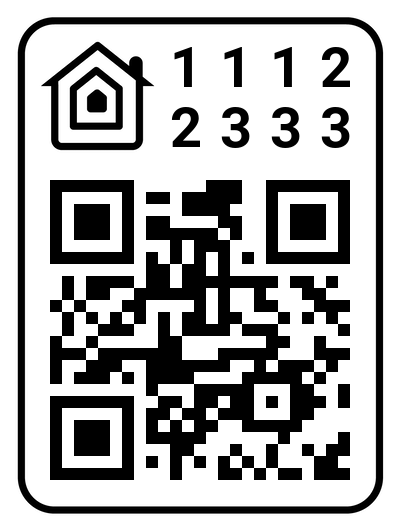
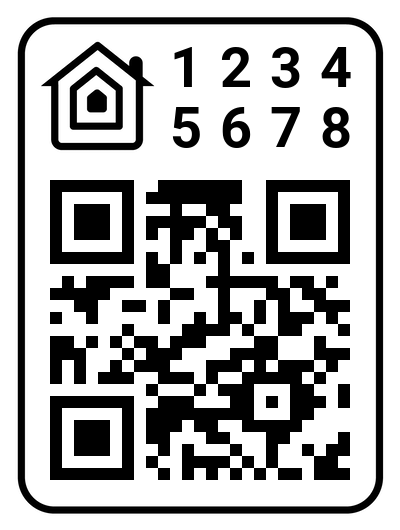
fix

diff --git a/src/cam_backend.c b/src/cam_backend.c
@@ -8,6 +8,8 @@
 
 #include <pthread.h>
 
+#include <cJSON.h>
+
 #include "cam_backend.h"
 #include "debug.h"
 #include "port.h"
@@ -68,7 +70,7 @@ static char _ff_fps[] = "10";
 static char _ff_vssrc[16];
 static char _ff_vsrtp[128];
 static char _ff_url[1024];
-
+#if 0
 static char* ffmpeg_args[] = {
     ffmpeg_cmd_path,
     "-f", "video4linux2",
@@ -84,11 +86,30 @@ static char* ffmpeg_args[] = {
     "-srtp_out_params", _ff_vsrtp, _ff_url,
     NULL
 };
-
+#else
+static char* ffmpeg_args[] = {
+    ffmpeg_cmd_path,
+    "-i", "http://127.0.0.1:7777/live",
+//    "-i", "/home/tong/homekit-lwng/build/vid.h264",
+//    "-i", "/home/tong/live.h264",
+    "-input_format", "h264",
+    "-video_size", _ff_video_size,
+    "-framerate", _ff_fps,
+//    "-vcodec", "h264_omx",
+    "-vcodec", "copy",
+    "-tune", "zerolatency",
+    "-copyts", "-an", "-payload_type", "99",
+    "-ssrc", _ff_vssrc,
+    "-f", "rtp",
+    "-srtp_out_suite", "AES_CM_128_HMAC_SHA1_80",
+    "-srtp_out_params", _ff_vsrtp, _ff_url,
+    NULL
+};
+#endif
 #define FF_SRTP_URL_TEMPLATE \
     "srtp://%s:%d?"\
     "rtcpport=%d&localrtcpport=%d&pkt_size=1378"
-
+#if 1
 void cam_start()
 {
     if (_cam_status!=CAM_INITIALIZED)
@@ -119,7 +140,6 @@ void cam_start()
         exit(0);
     }
 }
-
 void cam_kill()
 {
     if (_cam_status!=CAM_STARTED)
@@ -128,6 +148,41 @@ void cam_kill()
     cam_pid = 0;
     _cam_status = CAM_UNINITIALIZED;
 }
+
+
+#else
+//call camera_daemon to start streaming
+void cam_start()
+{
+    if (_cam_status!=CAM_INITIALIZED)
+        return;
+
+    base64_encode((uint8_t*)&vsrtp,sizeof(struct srtp_cfg), _ff_vsrtp);
+
+    cJSON* srtp_cfg = cJSON_CreateObject();
+    cJSON* json_addr = cJSON_CreateString(controller_ip);
+    cJSON_AddItemToObject(srtp_cfg, "addr", json_addr);
+    cJSON* json_port = cJSON_CreateNumber(vrtp_port);
+    cJSON_AddItemToObject(srtp_cfg, "port", json_port);
+    cJSON* json_ssrc = cJSON_CreateNumber(vssrc);
+    cJSON_AddItemToObject(srtp_cfg, "ssrc", json_ssrc);
+    cJSON* json_key = cJSON_CreateString(_ff_vsrtp);
+    cJSON_AddItemToObject(srtp_cfg, "key", json_key);
+
+    char* str = cJSON_Print(srtp_cfg);
+    FILE* cfg = fopen("/tmp/srtp_cfg.json", "w");
+    fwrite(str, sizeof(uint8_t), strlen(str), cfg);
+    fclose(cfg);
+    cJSON_Delete(srtp_cfg);
+
+    system("curl -d \"@/tmp/srtp_cfg.json\" -X POST http://127.0.0.1:7777/srtp_cast_to");
+
+}
+void cam_kill()
+{
+    system("curl http://127.0.0.1:7777/stop_srtp");
+}
+#endif
 
 uint8_t cam_status()
 {

diff --git a/src/test.c b/src/test.c
@@ -24,12 +24,14 @@ void led_identify(homekit_value_t _value) {
 char* handle_resource(const char *body, size_t body_size)
 {
     printf("handle resource : %s\n", body);
+#if 0
     char buffer[128];
     int w,h;
     sscanf(body, "{\"image-width\":%d,\"image-height\":%d,\"resource-type\":\"image\"}", &w, &h);
     snprintf(buffer,128,
             "/opt/vc/bin/raspistill -w %d -h %d -o /tmp/snapshot.jpg", w, h);
     system(buffer);
+#endif
     return "/tmp/snapshot.jpg\0";
 }
 
@@ -475,8 +477,8 @@ homekit_accessory_t *accessories[] = {
 
 homekit_server_config_t config = {
     .accessories = accessories,
-    .password = "111-22-333",
-    .setupId="8086",
+    .password = "123-45-678",
+    .setupId="8087",
     .on_resource = handle_resource
 };
 
